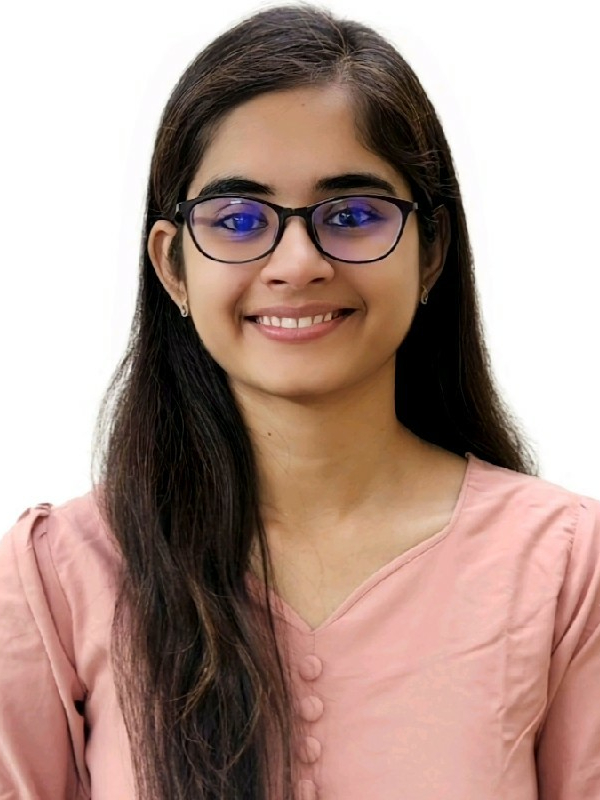
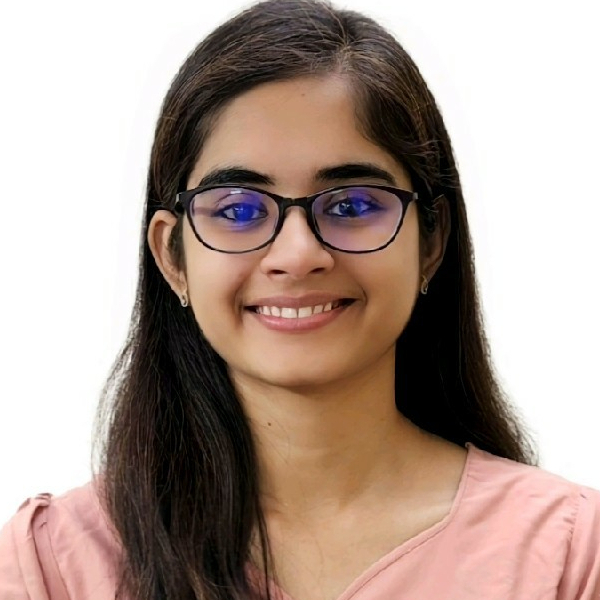
Experts square+wider+education, fluid labels, testimonial photo band
- Square (1:1) expert photos, cards widened ~30% for the brief; add real
  education lines (Apurva/Vishakha/Viraj), en + hi.
- Labels are fluid again (14->16px) instead of a static 14px floor.
- Fix Gitanj's qualifications line (MBA XLRI · B.Tech Mech Nirma · M.S. CS).
- Testimonials: 64px photo band above each quote, exactly the quote width,
  centre cover-cropped so narrowing trims the sides with the centre fixed.

diff --git a/src/styles/global.css b/src/styles/global.css
@@ -113,10 +113,10 @@ html[lang="hi"] .ecar__role {
   letter-spacing: normal;
 }
 
-/* Readability floor: never below 14px. Raises the smallest utility text
-   (Tailwind text-xs is 12px); unlayered so it wins over the utility. */
+/* Readability floor: never below 14px, but still fluid like everything else —
+   14px @375 -> 16px @1280. Unlayered so it wins over the Tailwind utility. */
 .text-xs {
-  font-size: 0.875rem;
+  font-size: clamp(0.875rem, 0.823rem + 0.22vw, 1rem);
 }
 
 @layer components {
@@ -210,7 +210,7 @@ html[lang="hi"] .ecar__role {
     font-family: theme("fontFamily.mono");
     text-transform: uppercase;
     letter-spacing: 0.14em;
-    font-size: 0.875rem;
+    font-size: clamp(0.875rem, 0.823rem + 0.22vw, 1rem);
     font-weight: 400;
     color: var(--ink-2);
     display: inline-flex;
